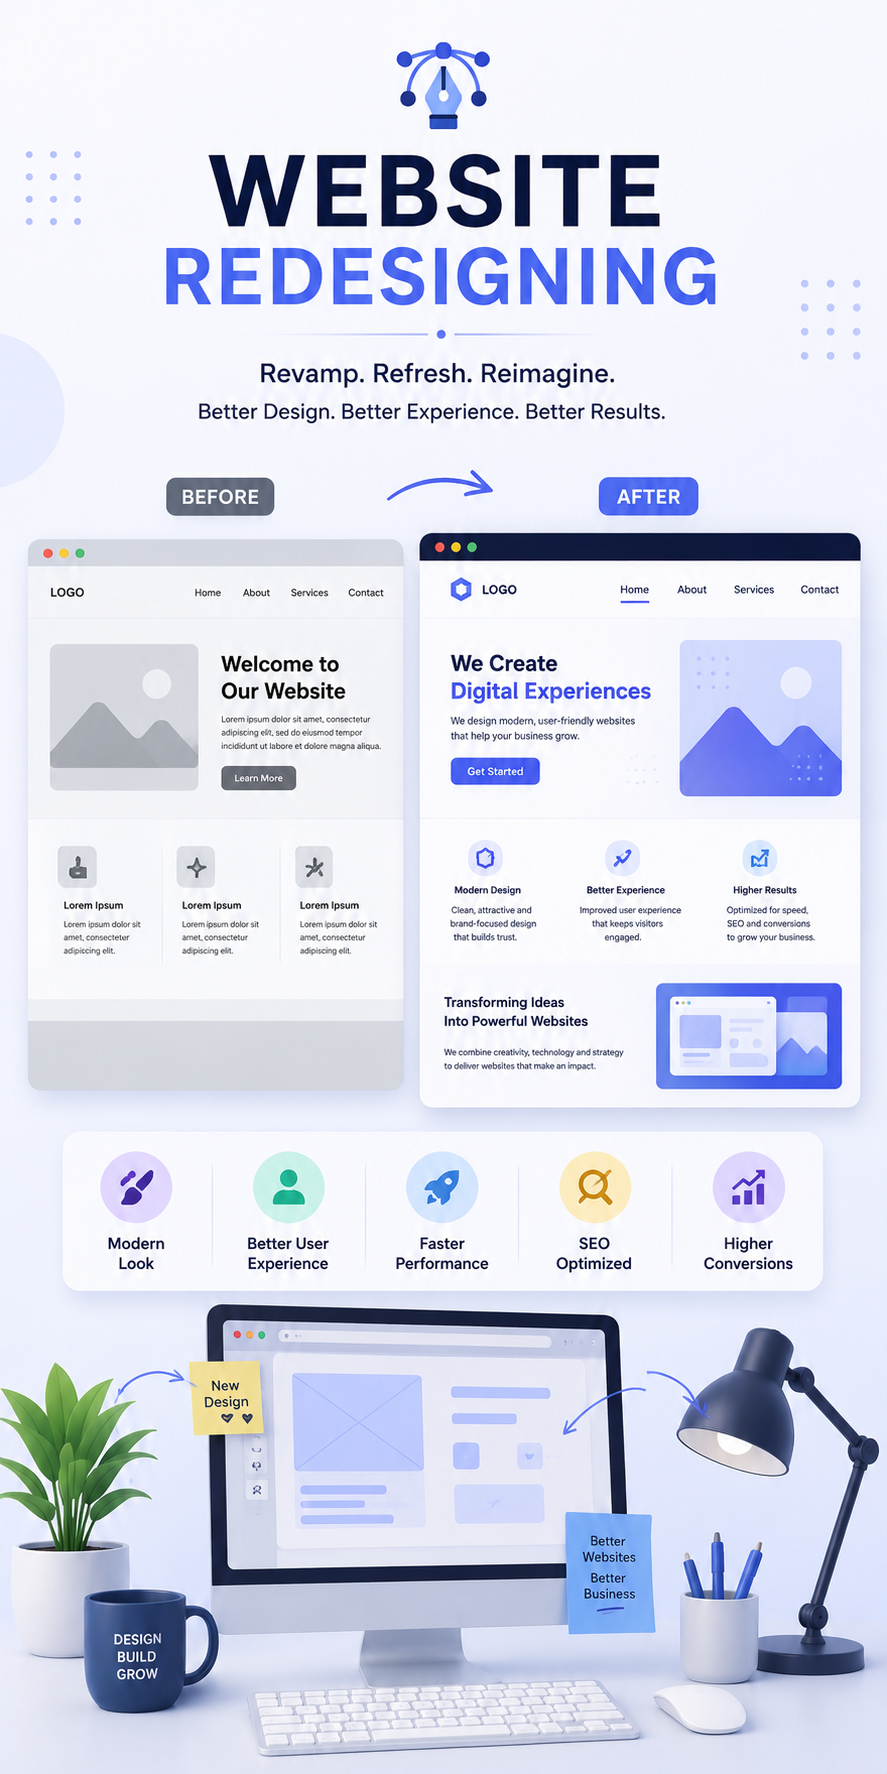
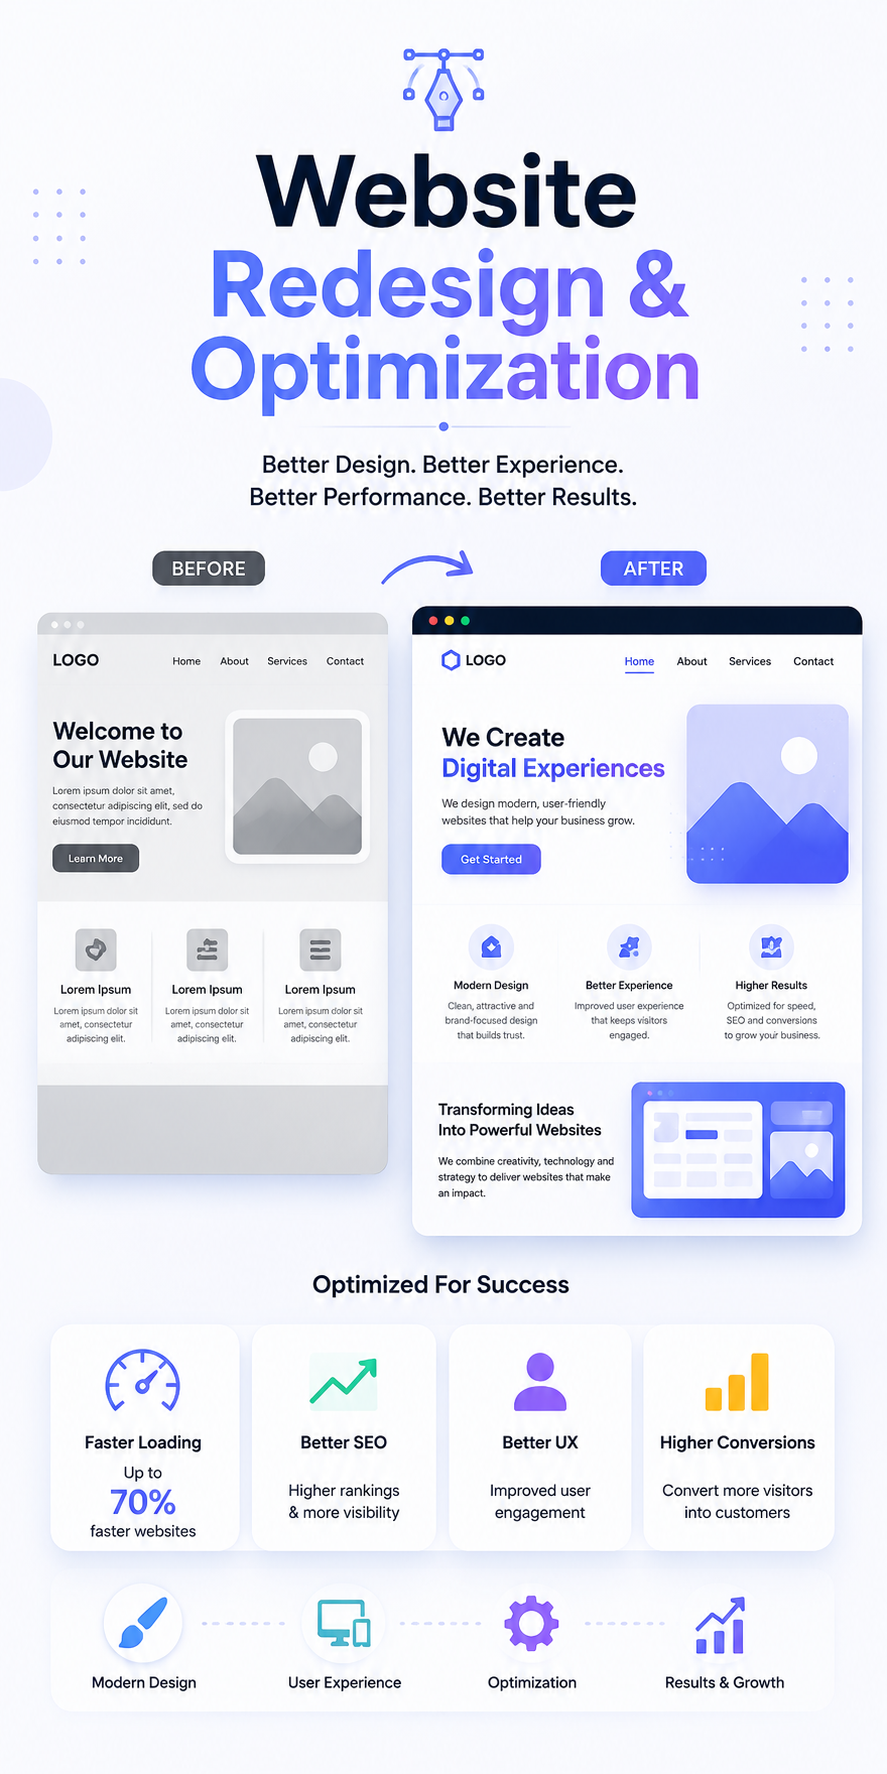
renaming components and iniatiating projects page

diff --git a/src/Skills.jsx b/src/Skills.jsx
@@ -1,0 +1,92 @@
+// Tech Stacks
+
+import react from "react";
+import bgImage from "./assets/bg.png";
+import htmlLogo from "./assets/html.png";
+import cssLogo from "./assets/css.png";
+import jsLogo from "./assets/js.png";
+import reactLogo from "./assets/react.png";
+import pythonLogo from "./assets/python.png";
+import gitLogo from "./assets/git.png";
+import githubLogo from "./assets/github1.png";
+import n8nLogo from "./assets/n8n.png";
+import splineLogo from "./assets/spline.png";
+
+export default function Skills() {
+  return (
+    <div
+      className="bg-cover h-screen w-screen bg-no-repeat bg-center snap-start flex flex-col justify-center"
+      style={{ backgroundImage: `url(${bgImage})` }}
+    >
+      <h1 className="text-[3vw] text-white font-bold flex justify-center py-10">
+        Skills
+      </h1>
+      <div className="grid grid-cols-2 justify-center items-center gap-10 text-white px-10">
+        <div>
+        <h2 className="text-[2vw] text-white font-bold flex justify-center py-10">Technologies</h2>
+      <div className="flex justify-center items-center gap-5 mx-auto flex-wrap mt-10">
+        <img
+          src={htmlLogo}
+          alt="HTML"
+          className="w-[5vw] h-[5vw] bg-[#dbdbdb] p-2 rounded-3xl transition-transform duration-300 ease-in-out hover:scale-110"
+        />
+        <img
+          src={cssLogo}
+          alt="CSS"
+          className="w-[5vw] h-[5vw] bg-[#dbdbdb] p-4 rounded-3xl transition-transform duration-300 ease-in-out hover:scale-110"
+        />
+        <img
+          src={jsLogo}
+          alt="JavaScript"
+          className="w-[5vw] h-[5vw] bg-[#dbdbdb] p-2 rounded-3xl transition-transform duration-300 ease-in-out hover:scale-110"
+        />
+        <img
+          src={reactLogo}
+          alt="React"
+          className="w-[5vw] h-[5vw] bg-[#dbdbdb] p-2 rounded-3xl transition-transform duration-300 ease-in-out hover:scale-110"
+        />
+        <img
+          src={pythonLogo}
+          alt="Python"
+          className="w-[5vw] h-[5vw] bg-[#dbdbdb] p-2 rounded-3xl transition-transform duration-300 ease-in-out hover:scale-110"
+        />
+        <img
+          src={gitLogo}
+          alt="Git"
+          className="w-[5vw] h-[5vw] bg-[#dbdbdb] p-2 rounded-3xl transition-transform duration-300 ease-in-out hover:scale-110"
+        />
+        <img
+          src={githubLogo}
+          alt="Github"
+          className="w-[5vw] h-[5vw] bg-[#dbdbdb] p-3 rounded-3xl transition-transform duration-300 ease-in-out hover:scale-110"
+        />
+        <img
+          src={n8nLogo}
+          alt="n8n"
+          className="w-[5vw] h-[5vw] bg-[#dbdbdb] p-2 rounded-3xl transition-transform duration-300 ease-in-out hover:scale-110"
+        />
+        <img
+          src={splineLogo}
+          alt="Spline"
+          className="w-[5vw] h-[5vw] bg-[#dbdbdb] p-2 rounded-3xl transition-transform duration-300 ease-in-out hover:scale-110"
+        />
+      </div>
+      </div>
+      <div>
+        <h2 className="text-[2vw] text-white font-bold flex justify-center py-10">Capabilities</h2>
+        <ul className="text-[1vw] text-white flex flex-col justify-center items-center gap-4">
+          <li>🔗 API Integration</li>
+          <li>🤖 AI Chatbots and Assistants</li>
+          <li>🎨 Interactive 3D experiences</li>
+          <li>⚡ Automation and Workflow Optimization</li>
+          <li>📊 Custom Dashboards</li>
+          <li>📱 Responsive Web Applications</li>
+
+
+
+        </ul>
+      </div>
+      </div>
+    </div>
+  );
+}

diff --git a/src/Projects.jsx b/src/Projects.jsx
@@ -1,0 +1,23 @@
+// Projects
+
+import bgImage from "./assets/bg.png";
+
+export default function Projects() {
+  return (
+    <div
+      className="bg-cover h-screen w-screen bg-no-repeat bg-center snap-start flex flex-col justify-center items-center gap-5"
+      style={{ backgroundImage: `url(${bgImage})` }}
+    >
+      <h1 className="text-[3vw] text-white font-bold flex justify-center">
+        Projects
+      </h1>
+      <div className="flex justify-center items-center gap-20 w-[80vw] mx-auto flex-wrap mt-5 text-white">
+        <button className=" border-blue-900 border rounded-2xl p-4 w-[15vw]"> ☆ Best Work</button>
+        <button className=" border-blue-900 border rounded-2xl p-4 w-[15vw]"> 🌐 Website</button>
+        <button className=" border-blue-900 border rounded-2xl p-4 w-[15vw]"> 🤖 AI Automation</button>
+
+      </div>
+      <div className="proj h-[70vh] w-[80vw] flex items-center justify-center p-4 border-blue-900 rounded-2xl border"></div>
+    </div>
+  );
+}

diff --git a/src/main.jsx b/src/main.jsx
@@ -1,13 +1,19 @@
 import React from "react";
 import ReactDOM from "react-dom/client";
-import Page1 from "./page1.jsx";
-import Page2 from "./page2.jsx";
-import Page3 from "./page3.jsx";
+import Home from "./Home.jsx";
+import Services from "./Services.jsx";
+import Skills from "./Skills.jsx";
+import Projects from "./Projects.jsx";
+import About from "./About.jsx";
 
 const p1 = ReactDOM.createRoot(document.getElementById("page1"));
 const p2 = ReactDOM.createRoot(document.getElementById("page2"));
 const p3 = ReactDOM.createRoot(document.getElementById("page3"));
-
-p1.render(<Page1 />);
-p2.render(<Page2 />);
-p3.render(<Page3 />);
+const p4 = ReactDOM.createRoot(document.getElementById("page4"));
+const p5 = ReactDOM.createRoot(document.getElementById("page5"));
+    
+p1.render(<Home />);
+p2.render(<Skills />);
+p3.render(<Services />);
+p4.render(<Projects />);
+p5.render(<About />);

diff --git a/src/About.jsx b/src/About.jsx
@@ -1,0 +1,12 @@
+// About ME
+import bgImage from "./assets/bg.png";
+
+
+export default function About() {
+    return(
+        <div className="bg-cover h-screen w-screen bg-no-repeat bg-center snap-start flex flex-col justify-center"
+              style={{ backgroundImage: `url(${bgImage})` }}>
+            
+        </div>
+    )
+}

diff --git a/index.html b/index.html
@@ -12,12 +12,14 @@
       rel="stylesheet"
     />
   </head>
-  <body
+  <bod
     class="m-0 p-0 bg-[#1a1a1a] font-sans"
   >
     <div id="page1"></div>
     <div id="page2"></div>
     <div id="page3"></div>
+    <div id="page4"></div>
+    <div id="page5"></div>
     <script type="module" src="/src/main.jsx"></script>
   </body>
 </html>